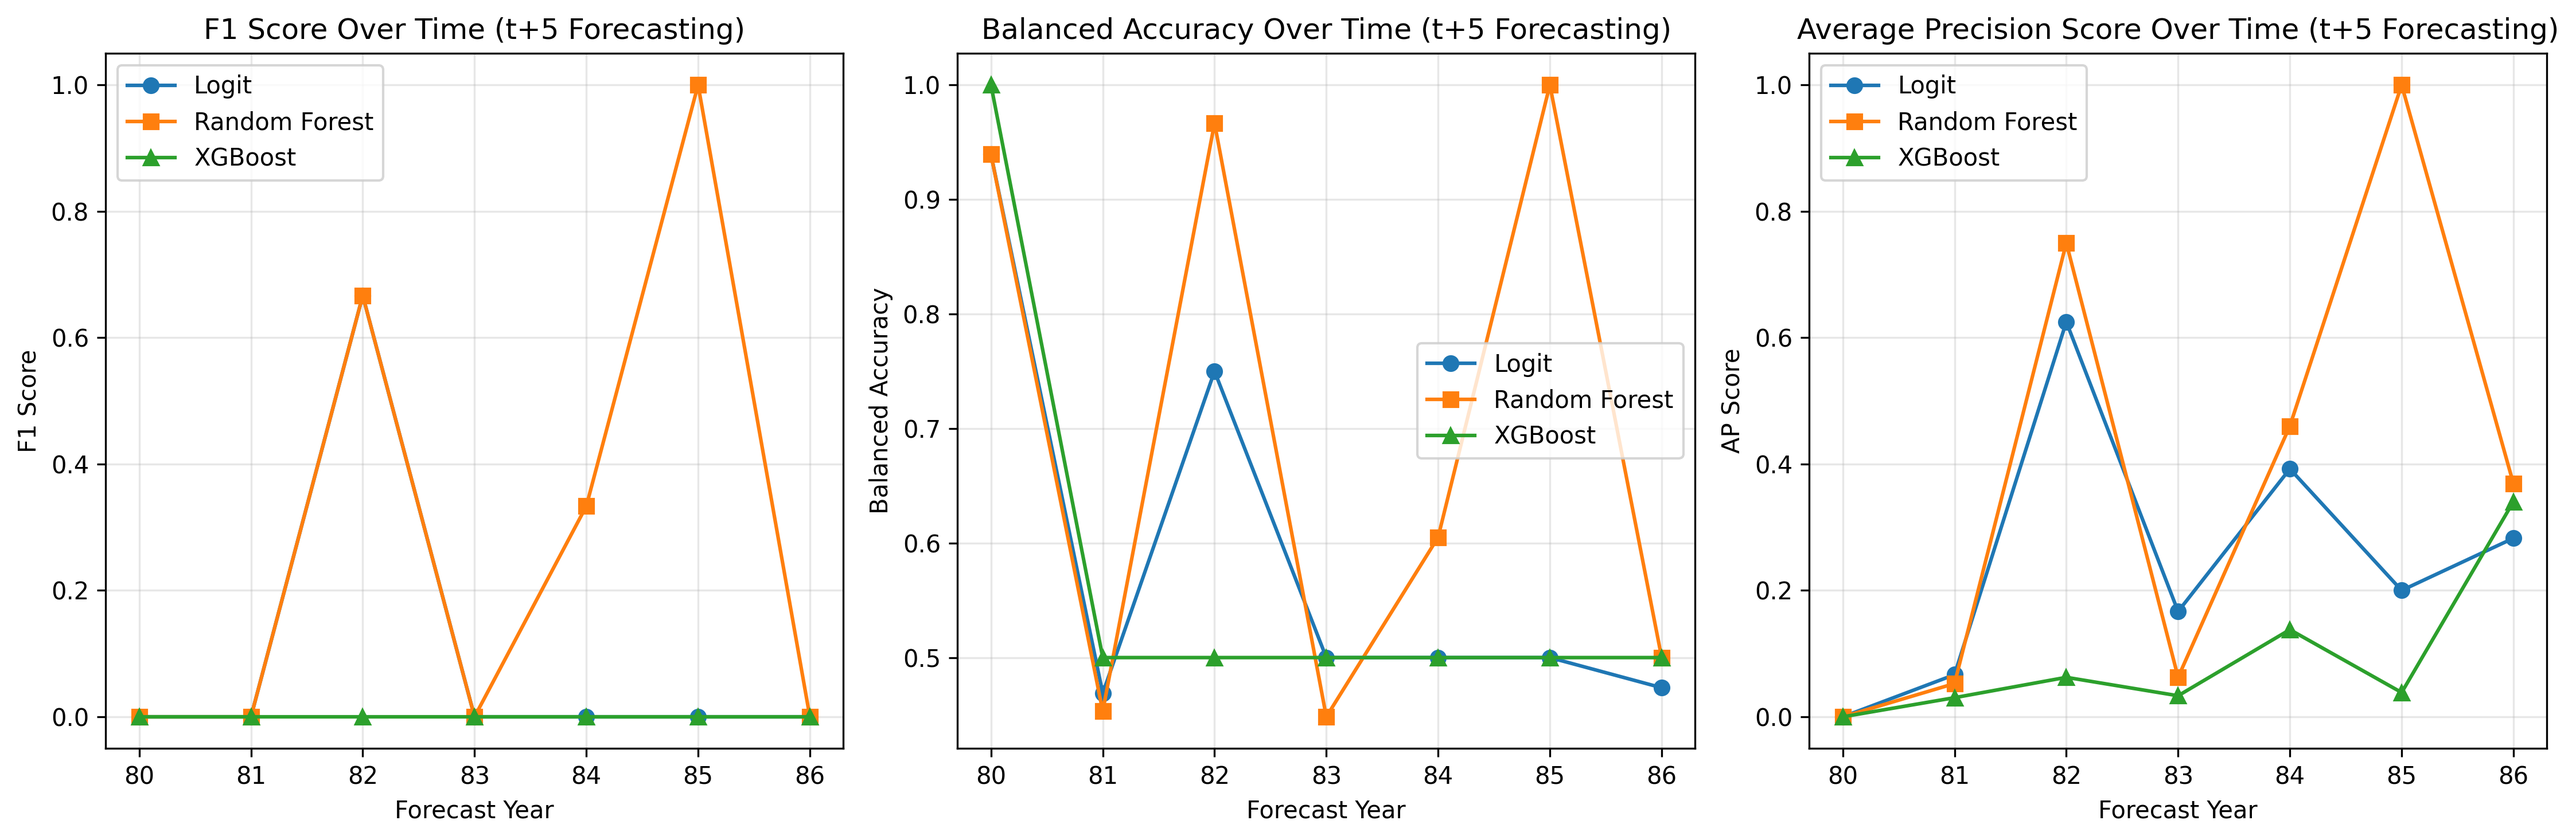
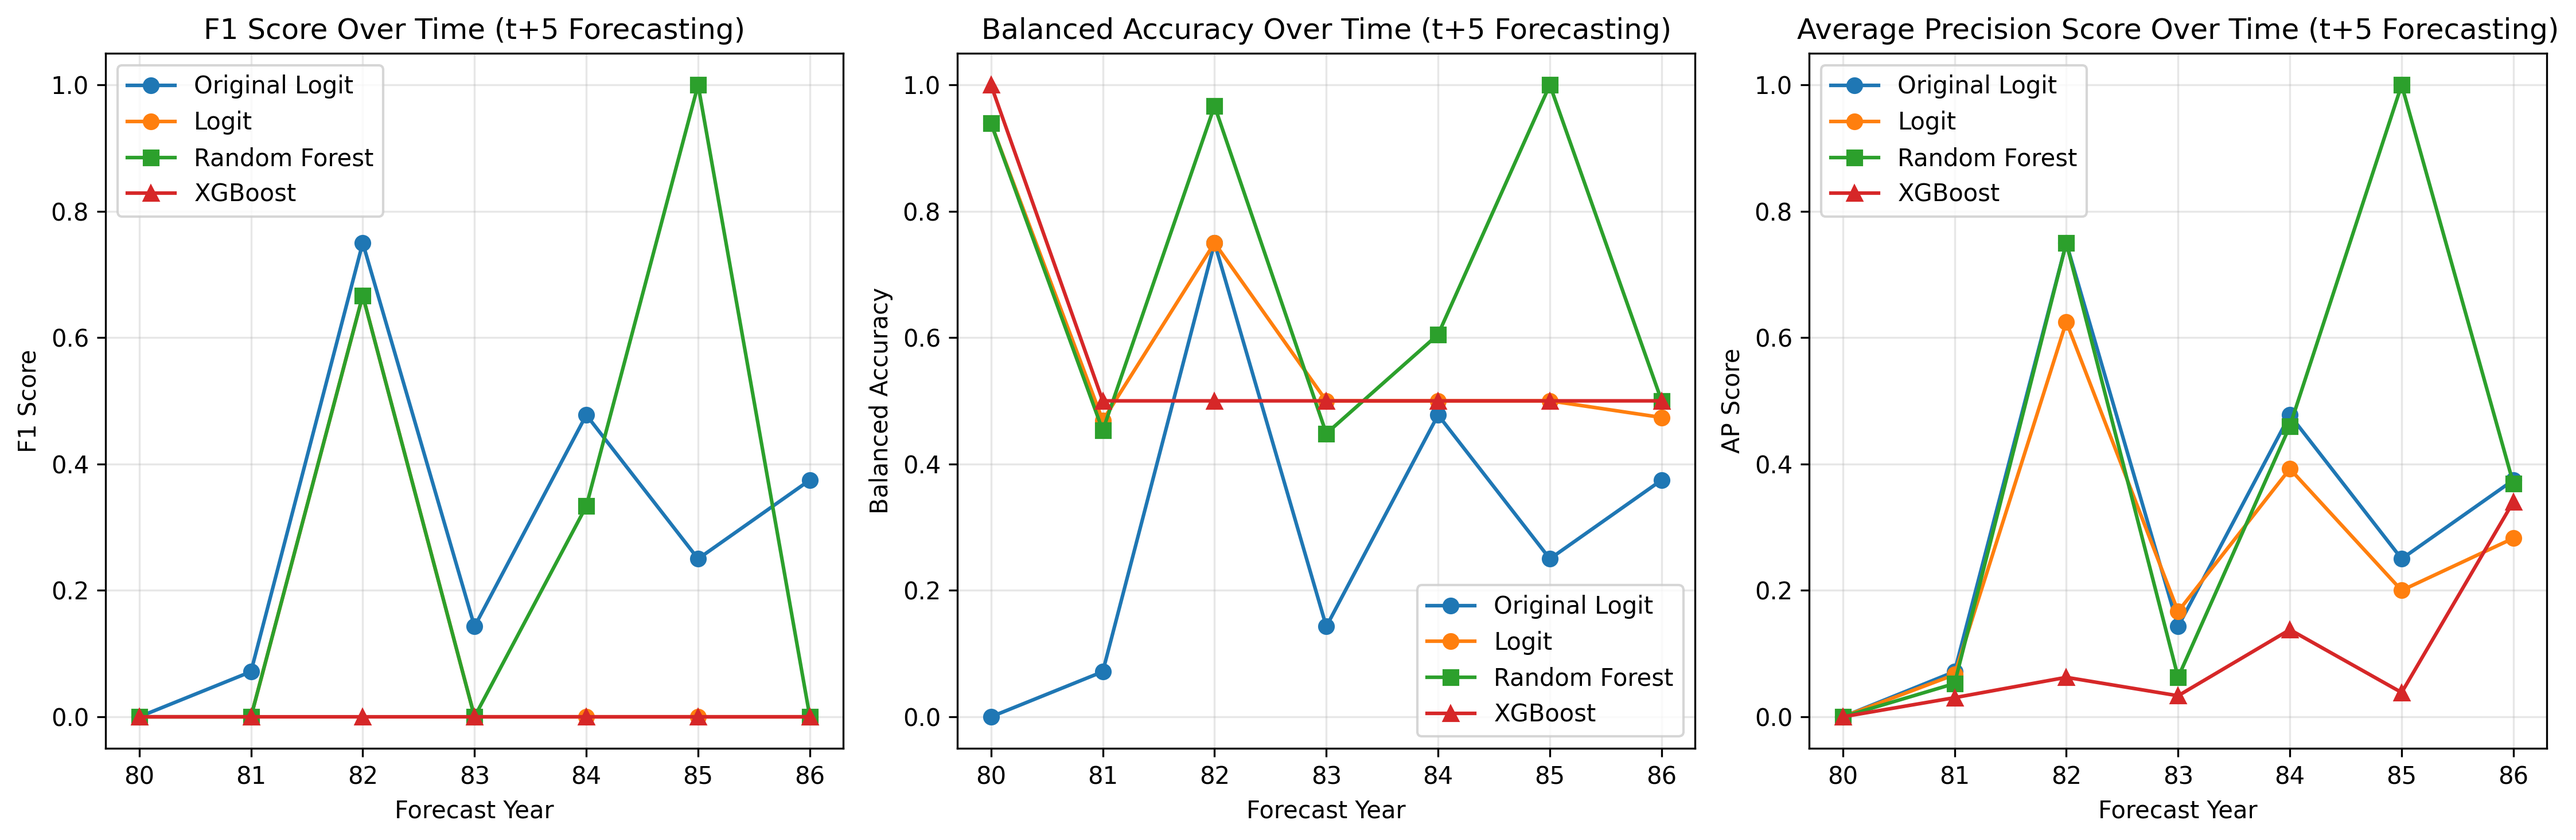
Finalized Berry and Berry (1990) forecast code.

diff --git a/ml_forecast/berry_berry_forecast.py b/ml_forecast/berry_berry_forecast.py
@@ -162,6 +162,7 @@ plt.figure(figsize = (15, 5))
 
 # F1 Score Over Time
 plt.subplot(1, 3, 1)
+plt.plot(years, results['original']['ap_score'], marker = 'o', label = 'Original Logit')
 plt.plot(years, results['logit']['f1'], marker = 'o', label = 'Logit')
 plt.plot(years, results['rf']['f1'], marker = 's', label = 'Random Forest') 
 plt.plot(years, results['xgb']['f1'], marker = '^', label = 'XGBoost')
@@ -173,6 +174,7 @@ plt.grid(True, alpha = 0.3)
 
 # Balanced Accuracy Over Time
 plt.subplot(1, 3, 2)
+plt.plot(years, results['original']['ap_score'], marker = 'o', label = 'Original Logit')
 plt.plot(years, results['logit']['balanced_acc'], marker = 'o', label = 'Logit')
 plt.plot(years, results['rf']['balanced_acc'], marker = 's', label = 'Random Forest')
 plt.plot(years, results['xgb']['balanced_acc'], marker = '^', label = 'XGBoost')
@@ -184,6 +186,7 @@ plt.grid(True, alpha = 0.3)
 
 # AP Score Over Time
 plt.subplot(1, 3, 3)
+plt.plot(years, results['original']['ap_score'], marker = 'o', label = 'Original Logit')
 plt.plot(years, results['logit']['ap_score'], marker = 'o', label = 'Logit')
 plt.plot(years, results['rf']['ap_score'], marker = 's', label = 'Random Forest')
 plt.plot(years, results['xgb']['ap_score'], marker = '^', label = 'XGBoost')
@@ -200,6 +203,9 @@ plt.show()
 # Save CSV
 time_series_results = pd.DataFrame({
     'year': years,
+    'original_f1': results['original']['f1'],
+    'original_balanced_acc': results['original']['balanced_acc'],
+    'original_ap_score': results['original']['ap_score'],
     'logit_f1': results['logit']['f1'],
     'logit_balanced_acc': results['logit']['balanced_acc'],
     'logit_ap_score': results['logit']['ap_score'],
@@ -348,6 +354,7 @@ plt.figure(figsize = (15, 5))
 
 # F1 Score Over Time
 plt.subplot(1, 3, 1)
+plt.plot(years, results['original']['ap_score'], marker = 'o', label = 'Original Logit')
 plt.plot(years, results['logit']['f1'], marker = 'o', label = 'Logit')
 plt.plot(years, results['rf']['f1'], marker = 's', label = 'Random Forest') 
 plt.plot(years, results['xgb']['f1'], marker = '^', label = 'XGBoost')
@@ -359,6 +366,7 @@ plt.grid(True, alpha = 0.3)
 
 # Balanced Accuracy Over Time
 plt.subplot(1, 3, 2)
+plt.plot(years, results['original']['ap_score'], marker = 'o', label = 'Original Logit')
 plt.plot(years, results['logit']['balanced_acc'], marker = 'o', label = 'Logit')
 plt.plot(years, results['rf']['balanced_acc'], marker = 's', label = 'Random Forest')
 plt.plot(years, results['xgb']['balanced_acc'], marker = '^', label = 'XGBoost')
@@ -370,6 +378,7 @@ plt.grid(True, alpha = 0.3)
 
 # AP Score Over Time
 plt.subplot(1, 3, 3)
+plt.plot(years, results['original']['ap_score'], marker = 'o', label = 'Original Logit')
 plt.plot(years, results['logit']['ap_score'], marker = 'o', label = 'Logit')
 plt.plot(years, results['rf']['ap_score'], marker = 's', label = 'Random Forest')
 plt.plot(years, results['xgb']['ap_score'], marker = '^', label = 'XGBoost')
@@ -386,6 +395,9 @@ plt.show()
 # Save CSV
 time_series_results = pd.DataFrame({
     'year': years,
+    'original_f1': results['original']['f1'],
+    'original_balanced_acc': results['original']['balanced_acc'],
+    'original_ap_score': results['original']['ap_score'],
     'logit_f1': results['logit']['f1'],
     'logit_balanced_acc': results['logit']['balanced_acc'],
     'logit_ap_score': results['logit']['ap_score'],
